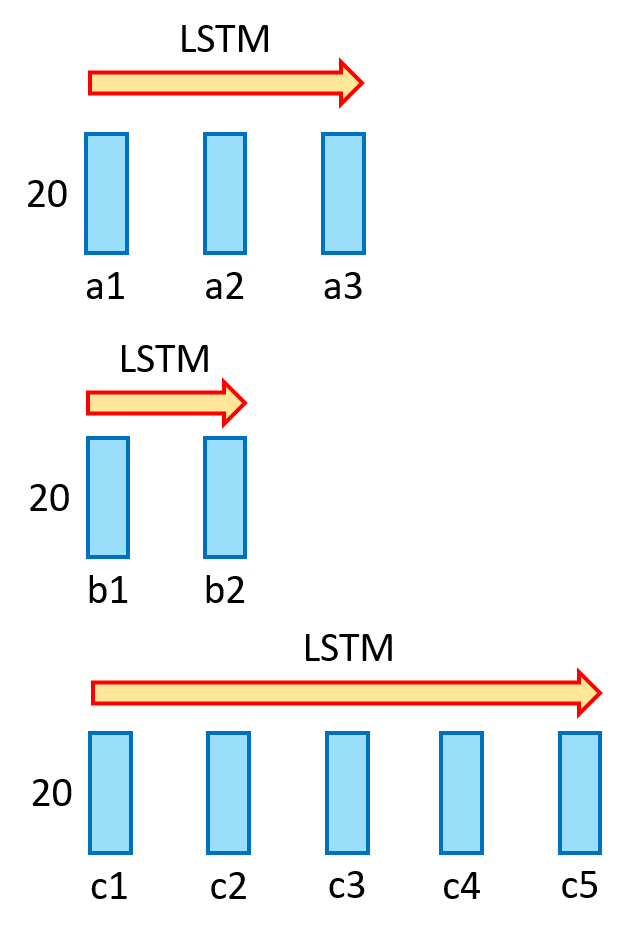
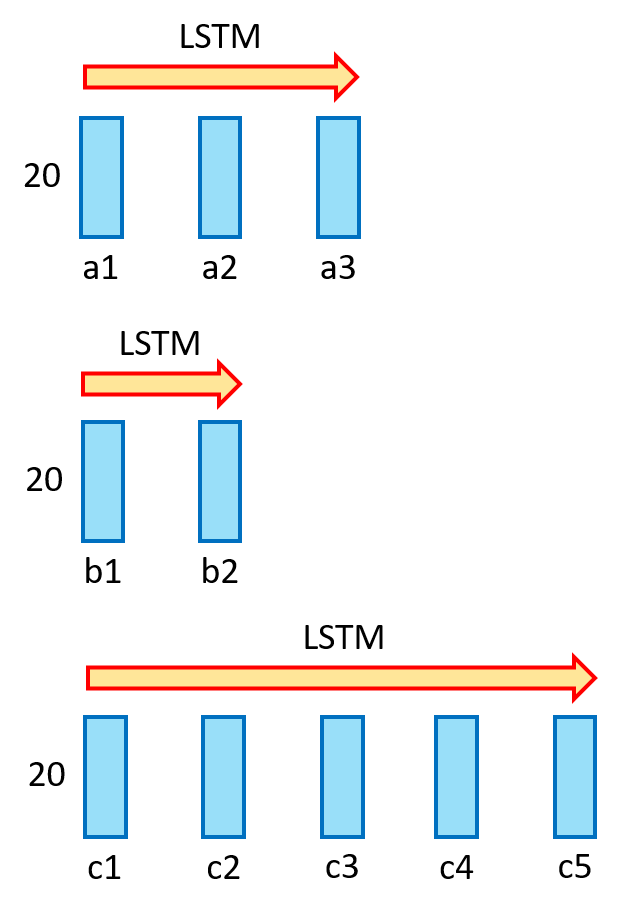
Update README

diff --git a/README.md b/README.md
@@ -89,7 +89,7 @@ When the network structure can be represented as *static*, it is recommended to 
 * See [MNIST](examples/mnist/)
 
 ### LSTM
-<p align="center"><img src="https://github.com/hshindo/Merlin.jl/blob/master/docs/src/assets/lstm_batch.png" width="250"></p>
+<p align="center"><img src="https://github.com/hshindo/Merlin.jl/blob/master/docs/src/assets/lstm_batch.png" width="240"></p>
 
 This is an example of batched LSTM.
 ```julia
